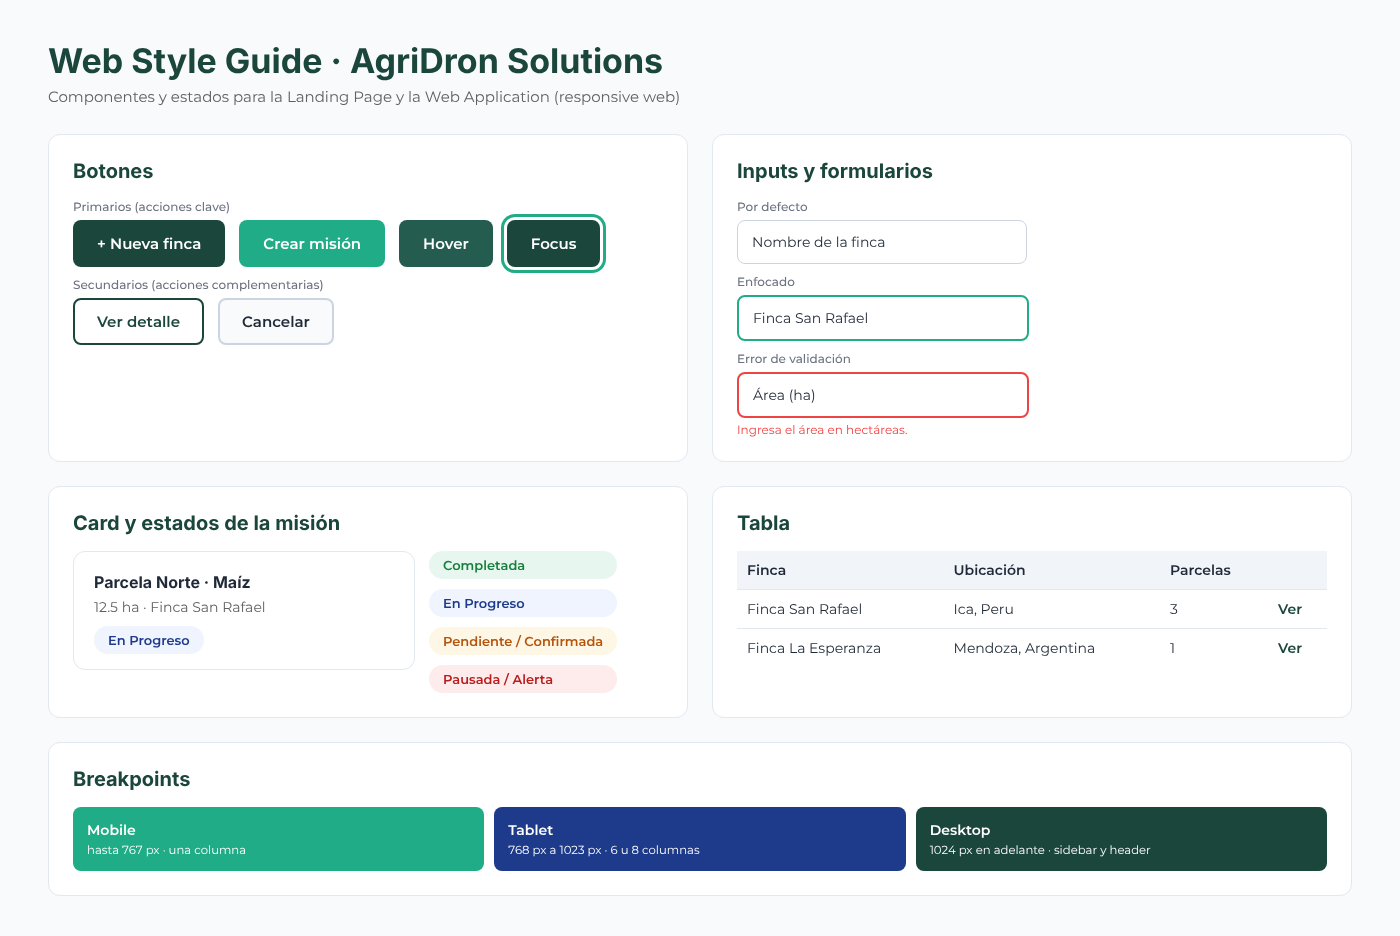
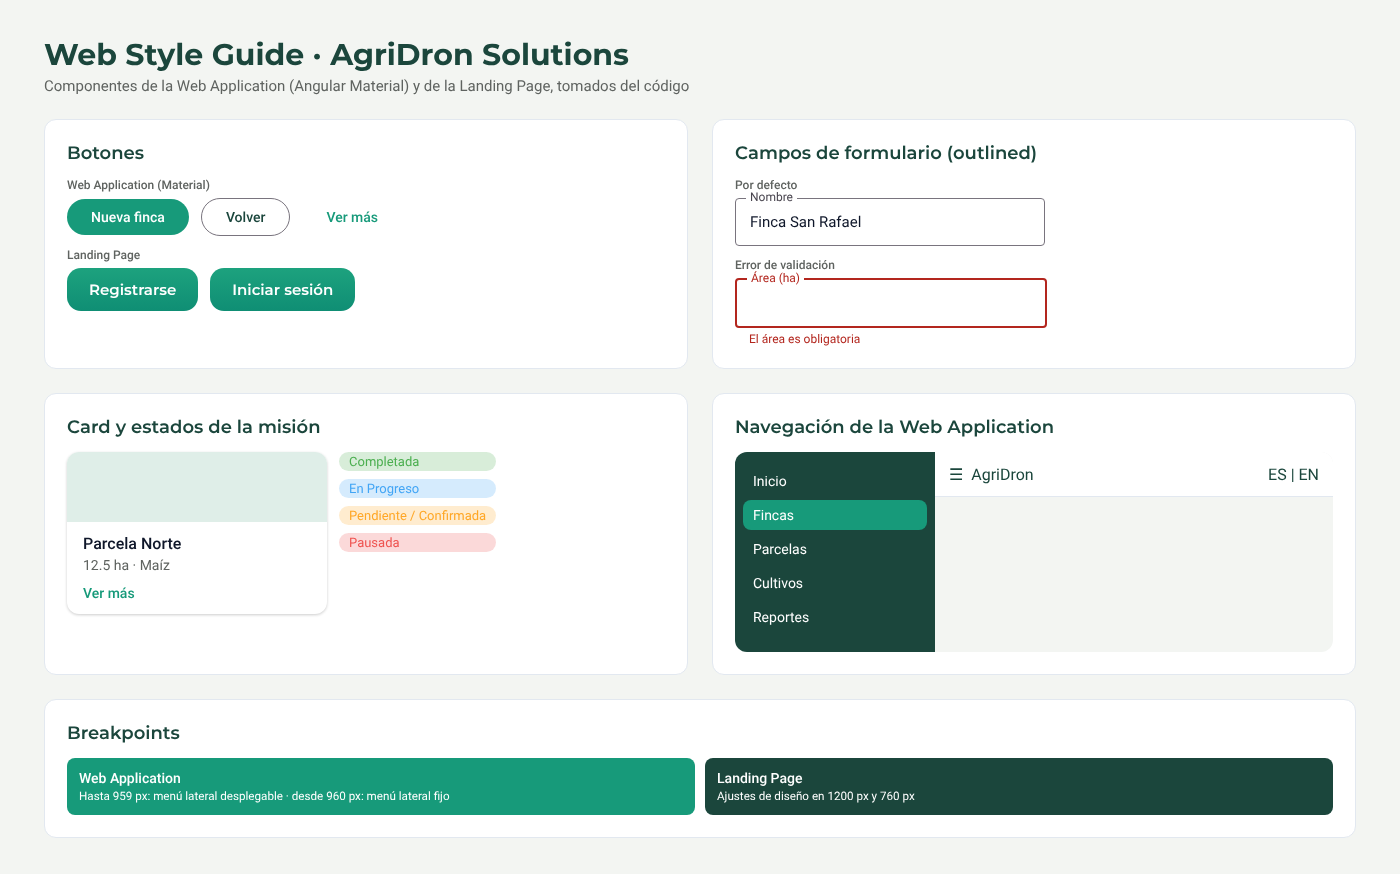
docs: base style guidelines on the frontend and landing page code
Describe the fonts, colors, breakpoints, navigation and components
actually used by the web application and the landing page, and replace
the palette, typography and web style images with versions generated
from those values.

diff --git a/README.md b/README.md
@@ -1283,38 +1283,30 @@ El branding de AgriDron se fundamenta en los siguientes conceptos clave:
 - **Sostenibilidad y Cercanía:** Inspiradas en una paleta orgánica y el uso de imágenes reales de campo, conectando la tecnología directamente con la realidad del agricultor.
 
 **3. Typography:**
-El sistema tipográfico de AgriDron emplea dos familias de fuentes seleccionadas para equilibrar fuerza de marca,
-alta legibilidad en pantallas y precisión técnica en datos:
 
-- **Brand / Títulos principales (Segoe UI):** Se utiliza en fuentes sans-serif para títulos (Display, Headline), encabezados
-de la landing page y secciones principales de la aplicación. Aporta modernidad y estructura visual limpia.
+El sistema tipográfico de AgriDron emplea dos familias de fuentes, una para cada producto, que equilibran la fuerza de marca con la legibilidad en pantalla:
 
-<img src="assets/chapter4/General_Style/Typography.jpg" alt="Typography Agridron" width="650"/>
+- **Montserrat (Landing Page):** se utiliza en títulos, párrafos y botones de la Landing Page, con Segoe UI como fuente alternativa. Sus pesos de 400 a 900 permiten jerarquizar títulos y textos con una sola familia.
+- **Roboto (Web Application):** es la tipografía de Material Design que aplica Angular Material en toda la Web Application. Se usa con los pesos 300, 400 y 500 en títulos, formularios, tablas y botones, y garantiza claridad en la consulta de datos operativos.
 
-*Figura: Escala tipográfica de títulos con Segoe UI.*
+<img src="assets/chapter4/General_Style/typography.png" alt="Typography Agridron" width="650"/>
 
-- **Plain / Cuerpo de texto (Montserrat):** Se emplea para el cuerpo de texto, párrafos, formularios, tablas, etiquetas y botones
-generales. Su alto rendimiento de lectura garantiza claridad en la consulta de datos operativos.
-
-<img src="assets/chapter4/General_Style/Typography_body.jpg" alt="Typography Agridron" width="650"/>
-
-*Figura: Tipografía Montserrat para el cuerpo de texto y la interfaz.*
+*Figura: Tipografías de AgriDron Solutions.* Montserrat se aplica en la Landing Page y Roboto en la Web Application, con la jerarquía de títulos, textos, etiquetas y botones de cada producto.
 
 **4. Colors:**
 
-La paleta de colores de AgriDron está inspirada en la naturaleza y el sector agrícola, complementada con tonos tecnológicos y de alto
-contraste para maximizar la legibilidad en campo y gabinetes operativos:
+La paleta de colores de AgriDron está inspirada en la naturaleza y el sector agrícola, complementada con colores de estado y de alerta de alto contraste:
 
-- **Verde Bosque / Primario (#1B463C):** Transmite sostenibilidad, naturaleza y confianza agrícola. Se utiliza en headers, navegación.
-- **Verde Teal / Secundario (#20AC87):** Aporta dinamismo y frescura. Se usa en botones interactivos (CTAs), estados activos de misiones y gráficos de progreso.
-- **Azul Tecnológico (#1E3A8A):** Representa precisión, telemetría y fiabilidad técnica en la plataforma. Utilizado en datos de vuelo y componentes de monitoreo.   
-- **Amarillo / Alerta (#F59E0B):** Destinado a estados programados, advertencias meteorológicas y notificaciones de atención.   
-- **Neutros (Blanco #FFFFFF y Gris Claro #F8FAFC):** Garantizan orden, espacio respirable y balance visual en la interfaz.
+- **Verde Bosque / Primario (#1B463C):** transmite sostenibilidad y confianza agrícola. Se utiliza en la barra lateral de navegación, el pie de página y los títulos de la Web Application.
+- **Verde Teal / Secundario (#179A7A):** aporta dinamismo. Se usa en los botones principales, la opción activa de la navegación y los íconos de métricas.
+- **Verdes de la Landing Page (#1DA27E a #0F8E74 y texto #0D3C35):** se aplican en los botones con degradado y en los textos de la Landing Page.
+- **Colores de estado de la misión:** verde #4CAF50 (Completada), azul #42A5F5 (En Progreso), naranja #FFA726 (Pendiente o Confirmada) y rojo #EF5350 (Pausada).
+- **Colores de alerta meteorológica:** azul #1E3A8A (severidad baja), ámbar #B45309 (severidad media) y rojo #B91C1C (severidad alta), cada uno sobre un fondo tenue.
+- **Neutros y error:** blanco #FFFFFF y gris claro #F3F5F2 para fondos y tarjetas, y rojo #B3261E para los mensajes de error.
 
-<img src="assets/chapter4/General_Style/colors.jpg" alt="Colors Agridron" width="650"/>
+<img src="assets/chapter4/General_Style/colors.png" alt="Colors Agridron" width="650"/>
 
-*Figura: Paleta de colores de AgriDron Solutions: verde bosque, verde teal, azul tecnológico, amarillo de alerta y blanco.*
-
+*Figura: Paleta de colores de AgriDron Solutions.* Agrupa los colores de marca, los colores de estado de la misión y los colores de las alertas meteorológicas y de error.
 
 **5. Spacing:**
 
@@ -1340,117 +1332,78 @@ Según las dimensiones del tono de comunicación, AgriDron se ubica en:
 
 **7. Language:**
 
-El lenguaje del sistema será directo, breve y orientado a la acción. El idioma principal de la interfaz será
-el Español (es_419), adaptado al entorno agrícola latinoamericano, contando con soporte para Inglés (en_US).
+El lenguaje del sistema será directo, breve y orientado a la acción. El idioma principal de la interfaz es el español, adaptado al entorno agrícola latinoamericano, con soporte para inglés.
 
-Se priorizarán frases cortas e imperativas que reduzcan la carga cognitiva:
-
-- Nueva misión en lugar de Registrar solicitud de servicio de fumigación.
-- Seleccionar parcela en lugar de Elegir área geográfica de terreno agrícola.
-- Monitorear vuelo en lugar de Visualizar estado de la telemetría del dron en ejecución.
-- Descargar reporte en lugar de Generar informe detallado de rendimiento de insumos.
+Se priorizan etiquetas cortas y verbos de acción que reducen la carga cognitiva, como en la Web Application: Nueva finca, Nueva parcela, Ver más, Editar, Eliminar y Volver. El cambio de idioma se realiza desde un selector en la barra superior.
 
 ### 4.1.2. Web Style Guidelines
 
-Las Web Style Guidelines de AgriDron Solutions establecen los criterios visuales y de interacción que
-guían el diseño de la landing page y la web application. Estas pautas aseguran consistencia entre dispositivos,
-favorecen la legibilidad y permiten que tanto agricultores como operadores técnicos naveguen de forma intuitiva por la plataforma.
+Las Web Style Guidelines de AgriDron Solutions establecen los criterios visuales y de interacción que guían el diseño de la Landing Page y la Web Application. Estas pautas aseguran consistencia entre dispositivos, favorecen la legibilidad y permiten que tanto agricultores como operadores técnicos naveguen de forma intuitiva por la plataforma.
 
 **Estructura general**
 
-AgriDron Solutions adopta un enfoque responsive web design, de modo que la interfaz se adapte correctamente a desktop,
-laptop, tablet y mobile web sin perder claridad ni coherencia visual.
+AgriDron Solutions adopta un enfoque responsive web design, de modo que la interfaz se adapte a desktop, tablet y mobile web sin perder claridad ni coherencia visual.
 
-- **Desktop:** La navegación principal se presenta mediante sidebar lateral y header superior. Los módulos con mayor densidad informativa, como la gestión de parcelas en mapa satelital, monitoreo de misiones, inventario y reportes de productividad, aprovechan mejor el ancho disponible mediante tablas, mapas interactivos, tarjetas de métricas y filtros visibles.
-
-- **Tablet:** La estructura se reorganiza a 6 u 8 columnas, reduciendo el número de elementos visibles por fila. Los paneles laterales pueden colapsarse y ciertas tablas o paneles de telemetría pasan a formatos más compactos para facilitar la interacción táctil en campo.
-
-- **Mobile Web:** La estructura se simplifica a una sola columna. Los elementos se apilan verticalmente, se priorizan botones de acción principal (como iniciar misión o registrar incidencia) y la navegación se compacta mediante menú hamburguesa o navegación inferior, según el flujo de trabajo.
+- **Web Application:** la navegación se organiza con una barra lateral en verde bosque y una barra superior con el botón de menú, el nombre AgriDron y el selector de idioma. La barra lateral da acceso a Inicio, Fincas, Parcelas, Cultivos, Zonas de fumigación, Reportes, Drones y Perfil. Las fincas, parcelas y drones se presentan en cuadrículas de tarjetas que se reacomodan según el ancho disponible.
+- **Landing Page:** un menú superior lleva a las secciones Inicio, Funcionalidades, Cómo funciona, Para quién y Nuestro equipo, y los botones de acción dirigen al registro y al inicio de sesión.
 
 **Breakpoints**
 
-Se proponen los siguientes breakpoints para asegurar una adaptación consistente en todos los entornos de uso:
-
-- Mobile: hasta 767 px.
-- Tablet: desde 768 px hasta 1023 px.
-- Desktop: 1024 px en adelante.
-
-![Web Style Guide de AgriDron Solutions](./assets/chapter4/Web_Style/web_style_guide.png)
-
-*Figura: Web Style Guide de AgriDron Solutions.* Ilustra los botones primarios y secundarios con sus estados hover y focus, los inputs en estado por defecto, enfocado y con error de validación, una card con su estado de misión, los colores de los estados (Completada, En Progreso, Pendiente o Confirmada, y Pausada o alerta), el formato de las tablas y los tres breakpoints.
+- **Web Application:** hasta 959 px la barra lateral se oculta y se abre como panel desplegable desde el botón de menú. Desde 960 px la barra lateral permanece fija.
+- **Landing Page:** el diseño se reorganiza en 1200 px y en 760 px, apilando los contenidos en una sola columna en pantallas pequeñas.
 
 **Componentes básicos de UI**
 
-- Botones primarios: fondo verde bosque #1B463C o verde teal #20AC87, texto blanco, bordes redondeados de 8 px a 12 px. Se utilizan para acciones clave como + Nueva finca, + Nueva parcela, Crear misión, Confirmar e Iniciar sesión.
-- Botones secundarios: fondo blanco o gris claro #F8FAFC, borde en verde bosque #1B463C o gris #CBD5E1, con texto oscuro. Se emplean para acciones complementarias como Cancelar, Ver detalle, Filtrar o Volver.
-- Inputs y formularios: bordes suaves (#CBD5E1), fondo claro e interno con suficiente padding para facilitar la lectura e interacción. El estado enfocado resalta mediante un borde verde teal #20AC87. El estado de error utiliza un borde rojo #EF4444 con un mensaje de validación visible debajo del campo.
-- Cards: contenedores rectangulares con esquinas redondeadas, padding interno de 16 px a 24 px y jerarquía clara entre título, contenido y acciones. Se usan en el dashboard principal, resumen meteorológico, métricas de cultivo, tarjetas de fincas y vistas de misiones.
-- Tablas: encabezados destacados sobre fondo tenue, filas con separación visual suficiente mediante bordes sutiles y acciones agrupadas al extremo derecho. En resoluciones pequeñas, las tablas se transforman en tarjetas apiladas para mejorar la lectura rápida en dispositivos móviles de campo.
-- Sidebar: navegación vertical persistente en desktop, con acceso a Dashboard (Inicio), Fincas, Parcelas, Misiones, Drones / Monitoreo, Reportes, Inventario y Configuración. En tablet y mobile web la barra lateral se colapsa automáticamente.
-- Header: barra superior que alberga el nombre del usuario autenticado, su rol (Agricultor u Operador técnico), buscador global, widget de notificaciones / alertas meteorológicas y acceso rápido a configuración o cierre de sesión.
+- **Botones primarios:** en la Web Application son botones de Angular Material con fondo verde teal #179A7A y texto blanco, como Nueva finca o Crear. En la Landing Page usan un degradado verde (#1DA27E a #0F8E74) con bordes redondeados de 12 px a 14 px.
+- **Botones secundarios:** botones de Angular Material con borde o solo texto, para acciones como Volver, Ver más o Editar.
+- **Campos de formulario:** campos de Angular Material con estilo outlined. Si un dato obligatorio falta, el campo se marca en rojo #B3261E y muestra el mensaje de validación debajo, por ejemplo "El área es obligatoria".
+- **Cards:** tarjetas de Angular Material con esquinas redondeadas de 12 px, usadas para fincas, parcelas, drones, métricas y el clima.
+- **Tablas:** tablas de Angular Material en los reportes, con el estado de cada misión en etiquetas de color.
+- **Etiquetas de estado:** etiquetas redondeadas con el color de cada estado de la misión y de cada severidad de alerta meteorológica.
+
+![Web Style Guide de AgriDron Solutions](./assets/chapter4/Web_Style/web_style_guide.png)
+
+*Figura: Web Style Guide de AgriDron Solutions.* Ilustra los botones de la Web Application y de la Landing Page, los campos de formulario en estado por defecto y con error de validación, una tarjeta con las etiquetas de estado de la misión, la navegación de la Web Application y los breakpoints de cada producto.
 
 **Tipografía en web**
 
-La propuesta tipográfica de AgriDron Solutions mantiene como base las familias tipográficas Segoe UI y Montserrat, según la identidad visual previamente definida:
-
-- Títulos principales (H1): Segoe UI, 24 px a 28 px.   
-- Subtítulos (H2): Segoe UI SemiBold, 20 px a 22 px.   
-- Encabezados de sección (H3): Segoe UI Medium, 18 px.  
-- Texto de párrafo y descripciones: Montserrat Regular, 14 px a 16 px.   
-- Texto en botones: Montserrat SemiBold, 14 px a 16 px.   
-- Etiquetas de formularios y tablas: Montserrat Medium, 13 px a 14 px.   
-- Datos técnicos y telemetría: Montserrat, 12 px a 14 px (utilizado para coordenadas GPS, logs del dron y métricas de vuelo).
+- **Web Application (Roboto):** títulos de vista de 28 px, títulos de sección de 18 px, texto de formularios y tablas de 14 px, y etiquetas de 12 px.
+- **Landing Page (Montserrat):** títulos principales en pesos 700 a 900, subtítulos en peso 600 y párrafos en peso 400.
 
 **Interacción**
 
-- Hover: Los botones incrementan ligeramente el contraste o brillo del color base (verde o gris). Los enlaces se subrayan o cambian a un tono más intenso del verde corporativo.  
-- Focus: Todo componente interactivo muestra un estado visible de foco (anillo de resalte en verde teal #20AC87), especialmente en inputs, botones y controles de mapa, para favorecer la accesibilidad y navegación por teclado.   
-- Active / Click: Los botones aplican una ligera reducción de escala o sombra interna para confirmar la pulsación o interacción del usuario.  
-- Feedback visual: Estados como éxito (Completada), error o advertencia (Pausada, ráfaga de viento alto), pendiente (Pendiente o Confirmada) o información en progreso (En Progreso) se distinguen mediante color (verde, rojo, amarillo/ámbar, azul), iconografía representativa y texto breve de confirmación.  
-- Scroll y navegación persistente: En desktop, el header superior y los controles interactivos del mapa satelital permanecen fijos (sticky) para facilitar la navegación y el monitoreo continuo durante desplazamientos verticales largos.  
-- Responsive behavior: El contenido prioritario (estado de misión, mapa interactivo y botones de acción rápida) conserva visibilidad inmediata antes que elementos decorativos o información secundaria en pantallas reducidas.
+- **Hover:** las opciones de la barra lateral cambian su fondo al pasar el cursor.
+- **Estado activo:** la opción de navegación de la vista actual se resalta en verde teal #179A7A.
+- **Focus:** los componentes de Angular Material muestran un estado de foco visible, que favorece la navegación por teclado.
+- **Feedback visual:** los estados de la misión y las alertas meteorológicas se distinguen por color y por texto, y los errores de formulario se muestran junto al campo.
+- **Transiciones:** los cambios de color en la navegación usan transiciones breves de 0.2 segundos.
 
 ### 4.1.3. Mobile Style Guidelines
 
-Las Mobile Style Guidelines de AgriDron Solutions tienen como objetivo adaptar la experiencia de uso a pantallas reducidas sin perder funcionalidad, claridad visual ni consistencia con la propuesta general del producto. Estas pautas priorizan rapidez de interacción en campo, facilidad de lectura bajo luz solar directa y acceso inmediato a acciones frecuentes de fumigación y monitoreo.
+Las Mobile Style Guidelines de AgriDron Solutions adaptan la experiencia a pantallas reducidas, desde el navegador del celular, sin perder funcionalidad ni consistencia con la propuesta general del producto.
 
 **Estructura general**
 
-La experiencia móvil de AgriDron Solutions está diseñada para que agricultores y operadores técnicos puedan consultar información crítica de parcelas y ejecutar acciones esenciales de campo desde cualquier lugar.
-
-- Pantallas en una sola columna, con contenido apilado verticalmente.   
-- Header compacto, con el logo de AgriDron, nombre de la vista actual y acceso a notificaciones, alertas meteorológicas o menú desplegable.   
-- Navegación simplificada, priorizando las secciones más importantes según el rol del usuario (Inicio, Fincas, Parcelas, Misiones y Monitoreo).  
-- Botones de acción visibles, especialmente en flujos clave como + Nueva finca, + Nueva parcela, Crear misión o Pausar vuelo.   
-- Tarjetas resumidas e interactivas, en lugar de tablas complejas, para mostrar parcelas, misiones recientes, condiciones climáticas y telemetría de drones de forma clara y directa.
+- La barra lateral de la Web Application se oculta y se abre desde el botón de menú de la barra superior.
+- Las cuadrículas de tarjetas pasan a una sola columna, con el contenido apilado verticalmente.
+- El detalle del dron reorganiza su contenido en una sola columna desde 700 px, y el widget de clima reduce el tamaño de la temperatura en pantallas pequeñas.
+- La Landing Page apila sus secciones en una sola columna desde 760 px.
 
 **Componentes básicos en mobile**
 
-- Botones primarios: verde bosque #1B463C o verde teal #20AC87, texto blanco, esquinas redondeadas de 12 px y un área táctil mínima de 44 x 44 px para facilitar la interacción en terreno.   
-- Botones secundarios: fondo blanco o gris claro #F8FAFC con borde visible en verde o gris y alto contraste.
-- Inputs: ancho completo (100%), padding amplio y separación mínima de 16 px entre campos para evitar pulsaciones accidentales.
-- Cards de resumen: usadas para misiones, parcelas, clima y telemetría (batería, altitud, flujo de insumo), con distribución vertical y jerarquía visual clara.
-- Listas: los registros de fincas y misiones se organizan en bloques táctiles con título, estado, fecha, extensión en hectáreas (ha) y acción principal (Ver, Monitorear).
-- Indicadores de estado: cada misión o alerta utiliza color y texto explícito para distinguir rápidamente condiciones como Completada (verde), En Progreso (azul), Pendiente o Confirmada (amarillo/ámbar) o Pausada / Alerta (rojo).
+- Los botones, campos y tarjetas son los mismos de la versión web, con el ancho completo de la pantalla.
+- Los botones de Angular Material mantienen un área táctil suficiente para la interacción en campo.
+- Las etiquetas de estado conservan el mismo color y texto que en la versión web.
 
 **Tipografía en mobile**
 
-La adaptación móvil de AgriDron Solutions mantiene la coherencia con las familias tipográficas Segoe UI (títulos) y Montserrat (cuerpo e interfaz):
-
-- Título principal (H1): Segoe UI Bold, 20 px a 22 px.   
-- Subtítulos (H2): Segoe UI SemiBold, 16 px a 18 px.  
-- Texto general y párrafos: Montserrat Regular, 14 px.   
-- Botones: Montserrat SemiBold, 14 px.  
-- Etiquetas pequeñas o estados: Montserrat Medium, 12 px a 13 px.   
-- Datos de telemetría y coordenadas: Montserrat, 12 px a 13 px (utilizado para niveles de batería, velocidad m/s, flujo de líquido L/min y coordenadas GPS).
+Se mantienen Roboto en la Web Application y Montserrat en la Landing Page. En la Landing Page, el título principal se reduce en pantallas pequeñas para conservar la legibilidad.
 
 **Interacción en mobile**
 
-- Acciones rápidas y flujos cortos: Se priorizan flujos simplificados (como el dibujo de parcelas o la planificación de misiones en 3 o 4 pasos) para optimizar el trabajo en el campo.  
-- Dimensiones táctiles: Todos los botones y componentes interactivos respetan el tamaño mínimo de área táctil (44 x 44 px). 
-- Formularios en bloques: Los formularios de registro de parcelas, cultivos e insumos se dividen en secciones o pasos breves para evitar la fatiga visual. 
-- Alcance del pulgar: Las acciones críticas (como confirmar una misión o pausar una operación de emergencia) se colocan estratégicamente en la zona inferior de la pantalla al alcance natural del pulgar.   
-- Feedback inmediato: Los cambios de estado de vuelo, alertas meteorológicas o el guardado de datos se muestran instantáneamente mediante mensajes visibles (toast notifications), banners contextuales e indicadores de color explícitos.
+- La navegación se abre y se cierra desde el botón de menú, y el panel lateral se superpone al contenido.
+- El selector de idioma permanece visible en la barra superior.
+- Los mensajes de error y los estados se muestran igual que en la versión web.
 
 ---
 
